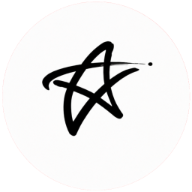
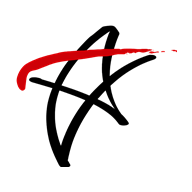
feat: implement responsive navigation header and add site branding assets

Changed region(s): [[0.0625, 0.125, 0.9375, 0.875]]

diff --git a/src/components/Nav.tsx b/src/components/Nav.tsx
@@ -42,7 +42,7 @@ export function Nav() {
     <header
       className={`fixed inset-x-0 top-0 z-50 transition-all duration-500 ${
         scrolled
-          ? "border-b border-edge bg-paper/85 backdrop-blur-xl"
+          ? "border-b border-edge bg-paper lg:bg-paper/85 lg:backdrop-blur-xl"
           : "border-b border-transparent bg-transparent"
       }`}
       style={{ height: "var(--nav-h)" }}
@@ -51,7 +51,11 @@ export function Nav() {
         className="mx-auto flex h-full max-w-7xl items-center justify-between px-5 sm:px-8"
         aria-label="Primary"
       >
-        <Link href="/" className="group relative z-10" aria-label={`${site.name} — home`}>
+        <Link
+          href="/"
+          className="group relative z-10 flex h-full shrink-0 items-center"
+          aria-label={`${site.name} — home`}
+        >
           {/* priority: the header mark is above the fold on every route. */}
           <Logo priority className="transition-transform duration-500 group-hover:scale-[1.03]" />
         </Link>
@@ -98,15 +102,20 @@ export function Nav() {
           aria-controls="mobile-menu"
           aria-label={open ? "Close menu" : "Open menu"}
         >
-          <span className="relative block h-3.5 w-5">
+          <span className="relative block h-4 w-5" aria-hidden="true">
             <span
-              className={`absolute left-0 block h-[1.5px] w-full bg-ink transition-all duration-300 ${
-                open ? "top-1/2 rotate-45" : "top-0"
+              className={`absolute left-0 top-1/2 block h-[1.5px] w-full -translate-y-1/2 bg-ink transition-all duration-300 ${
+                open ? "rotate-45" : "-translate-y-[6px]"
               }`}
             />
             <span
-              className={`absolute bottom-0 left-0 block h-[1.5px] w-full bg-ink transition-all duration-300 ${
-                open ? "bottom-1/2 -rotate-45 translate-y-1/2" : ""
+              className={`absolute left-0 top-1/2 block h-[1.5px] w-full -translate-y-1/2 bg-ink transition-all duration-300 ${
+                open ? "opacity-0" : "opacity-100"
+              }`}
+            />
+            <span
+              className={`absolute left-0 top-1/2 block h-[1.5px] w-full -translate-y-1/2 bg-ink transition-all duration-300 ${
+                open ? "-rotate-45" : "translate-y-[6px]"
               }`}
             />
           </span>

diff --git a/src/components/Logo.tsx b/src/components/Logo.tsx
@@ -1,20 +1,6 @@
 import Image from "next/image";
 
-/**
- * The real Star Growth Hub mark, from the brand favicon set in public/.
- *
- * Served from apple-touch-icon.png (180×180) rather than the 32px favicon so
- * it stays crisp on retina at the size it renders. Static export means Next
- * can't resize on the fly, so the source has to carry the pixels.
- *
- * Note the box is deliberately larger than it looks: the source is an app
- * icon, so the star only fills ~60% of the canvas and the rest is padding.
- * A 48px box therefore paints a ~29px glyph, which is what actually balances
- * the wordmark. The pale disc behind it is invisible on white.
- *
- * If you have the logo as an SVG, drop it in and swap this out — it would be
- * a fraction of the weight, sharp at any size, and free of the padding.
- */
+/** The supplied Star Growth Hub logo mark. */
 export function StarMark({
   className = "h-12 w-12",
   priority = false,
@@ -24,10 +10,10 @@ export function StarMark({
 }) {
   return (
     <Image
-      src="/apple-touch-icon.png"
+      src="/logo.png"
       alt=""
-      width={180}
-      height={180}
+      width={2070}
+      height={1766}
       priority={priority}
       className={`${className} object-contain`}
     />
@@ -43,10 +29,7 @@ export function Logo({
 }) {
   return (
     <span className={`inline-flex items-center gap-1.5 ${className}`}>
-      {/* -my-2 keeps the oversized mark from inflating the 72px nav row. */}
       <StarMark className="-my-2 h-12 w-12 shrink-0" priority={priority} />
-      {/* Three words, as the business is actually named on Google and
-          LinkedIn — not a compacted "StarGrowthHub" wordmark. */}
       <span className="font-display text-[1.15rem] font-semibold leading-none tracking-tight text-ink">
         Star <span className="text-brand">Growth</span> Hub
       </span>
